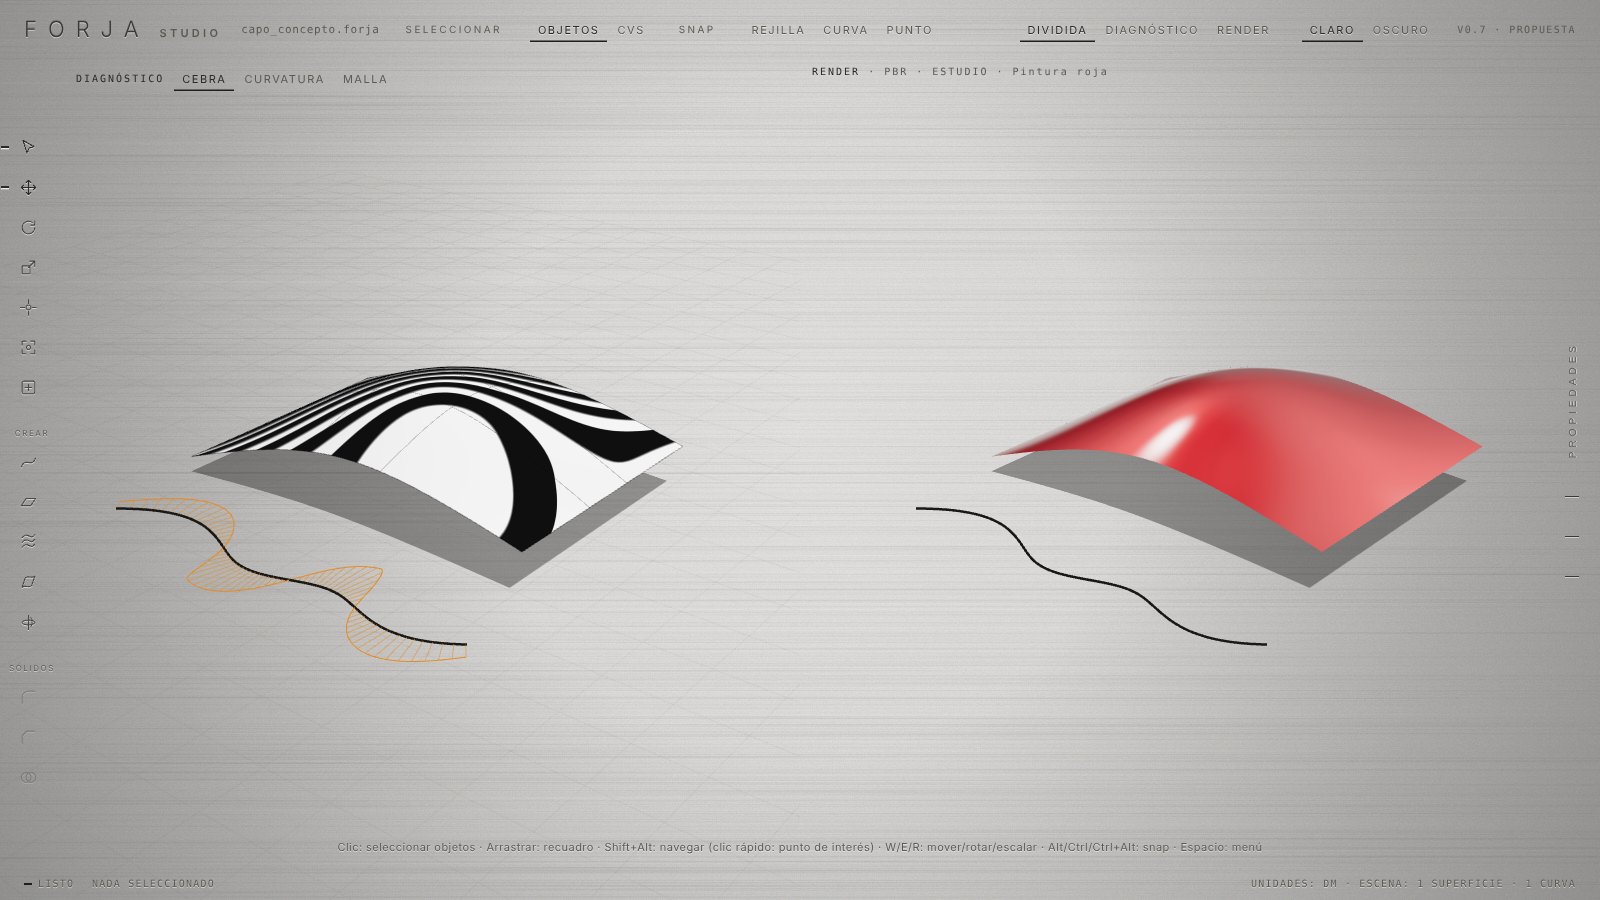
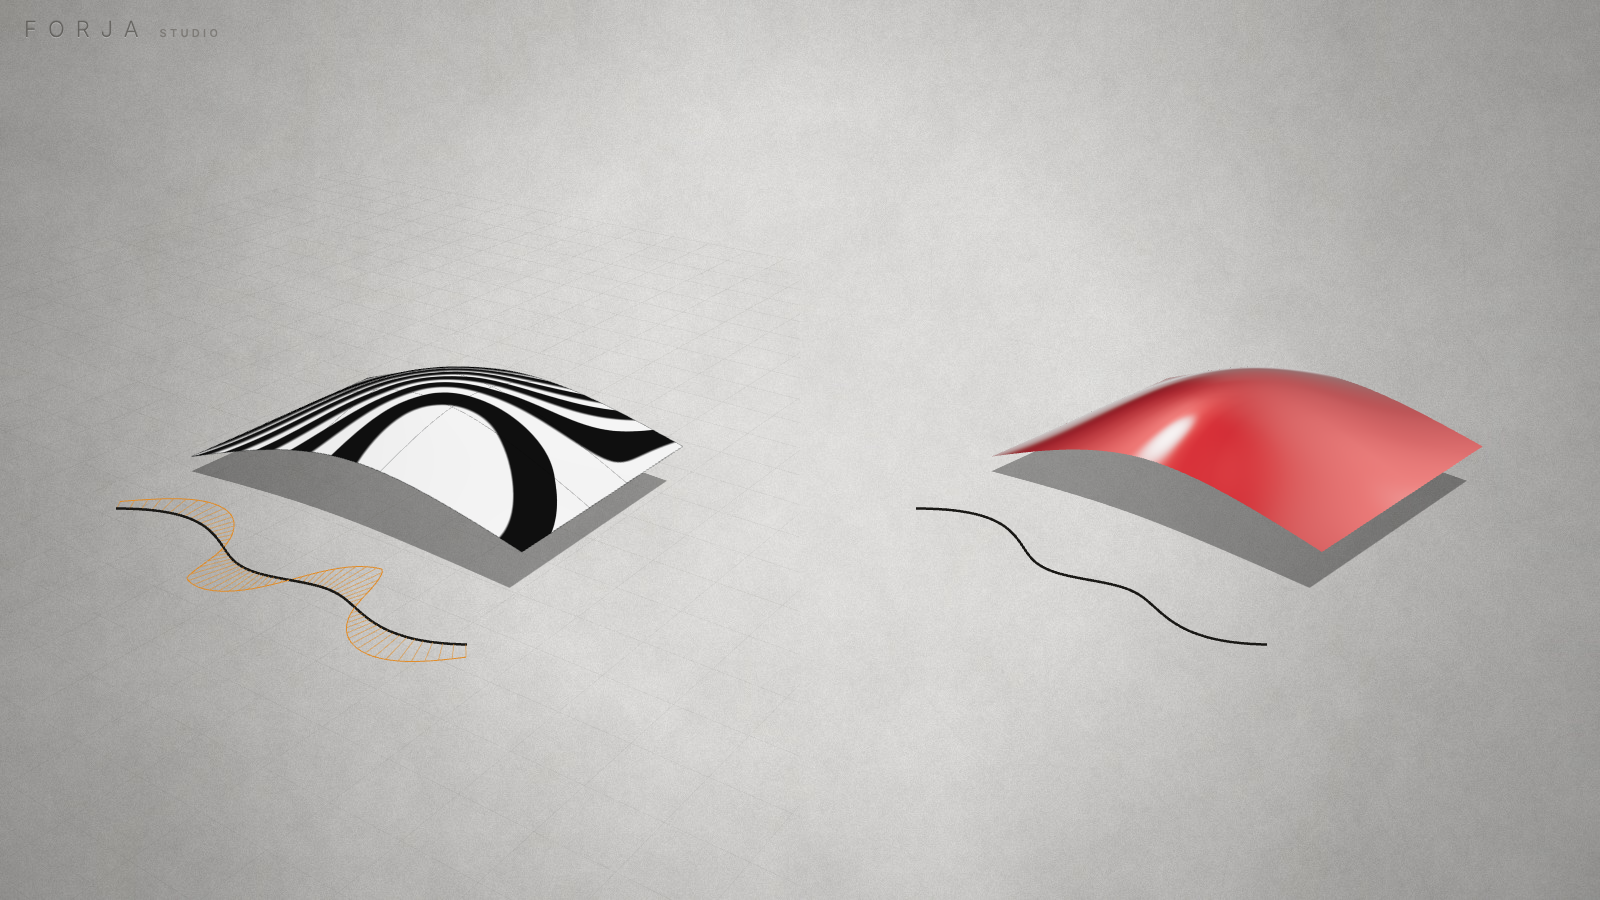
Fondo de piedra rugosa sin vetas en una sola dirección
Claude-Session: https://claude.ai/code/session_01GFT2bY11zXSFbQuxHpDENA

diff --git a/src/concrete.js b/src/concrete.js
@@ -1,4 +1,4 @@
-// Fondo de la app: superficie cepillada (vetas horizontales finas), con una luz suave en el centro
+// Fondo de la app: piedra rugosa (ruido en varias escalas y arañazos sutiles), con una luz suave en el centro
 // y los bordes en penumbra. Una sola imagen del tamaño de la pantalla, en versión clara u oscura.
 
 function rand(seed) {
@@ -19,23 +19,37 @@ export function brushedTexture({ w = 1600, h = 900, theme = 'dark', seed = 11 } 
   g.fillStyle = `rgb(${P.base.join(',')})`;
   g.fillRect(0, 0, w, h);
 
-  // Vetas horizontales: muchas líneas finas de largo y opacidad variables (efecto cepillado)
-  const count = Math.round(h * 2.2);
-  for (let i = 0; i < count; i++) {
-    const y = r() * h, x = r() * w * 0.6 - w * 0.2, len = w * (0.2 + r() * 0.9);
-    const a = 0.015 + r() * 0.05, lightLine = r() > 0.5;
-    const grd = g.createLinearGradient(x, 0, x + len, 0);
-    const col = (lightLine ? P.light : P.shade);
-    grd.addColorStop(0, col + '0)');
-    grd.addColorStop(0.5, col + a + ')');
-    grd.addColorStop(1, col + '0)');
-    g.fillStyle = grd;
-    g.fillRect(x, y, len, r() > 0.85 ? 2 : 1);
+  // Ruido en varias escalas (piedra rugosa): rejillas pequeñas de valores al azar, ampliadas con suavizado
+  const octaves = [[6, 0.22], [16, 0.16], [44, 0.13], [120, 0.11], [320, 0.1], [700, 0.09]];
+  for (const [cells, alpha] of octaves) {
+    const cw = Math.max(2, Math.round(cells * (w / h))), ch = cells;
+    const n = document.createElement('canvas');
+    n.width = cw; n.height = ch;
+    const ng = n.getContext('2d'), nd = ng.createImageData(cw, ch);
+    for (let k = 0; k < nd.data.length; k += 4) {
+      const v = Math.round(r() * 255);
+      nd.data[k] = nd.data[k + 1] = nd.data[k + 2] = v; nd.data[k + 3] = 255;
+    }
+    ng.putImageData(nd, 0, 0);
+    g.imageSmoothingEnabled = true;
+    g.globalAlpha = alpha * (theme === 'dark' ? 0.55 : 0.4);
+    g.globalCompositeOperation = 'overlay';
+    g.drawImage(n, 0, 0, w, h);
   }
-  // Grano muy fino
+  g.globalAlpha = 1;
+  g.globalCompositeOperation = 'source-over';
+
+  // Pocos arañazos finos en direcciones al azar
+  for (let i = 0; i < 70; i++) {
+    const x = r() * w, y = r() * h, ang = r() * Math.PI, len = 20 + r() * 160;
+    g.strokeStyle = (r() > 0.5 ? P.light : P.shade) + (0.03 + r() * 0.05) + ')';
+    g.lineWidth = 0.6;
+    g.beginPath(); g.moveTo(x, y); g.lineTo(x + Math.cos(ang) * len, y + Math.sin(ang) * len); g.stroke();
+  }
+  // Grano fino y rugoso
   const img = g.getImageData(0, 0, w, h), d = img.data;
   for (let i = 0; i < d.length; i += 4) {
-    const n = (r() - 0.5) * 6;
+    const n = (r() - 0.5) * 14;
     d[i] += n; d[i + 1] += n; d[i + 2] += n;
   }
   g.putImageData(img, 0, 0);
